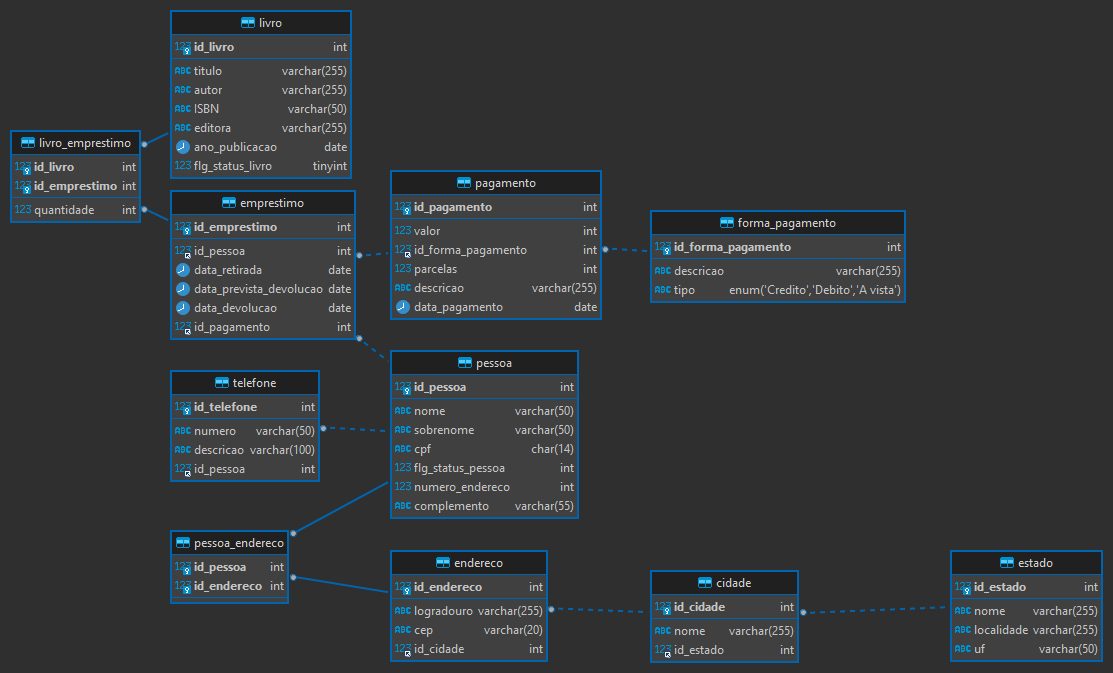
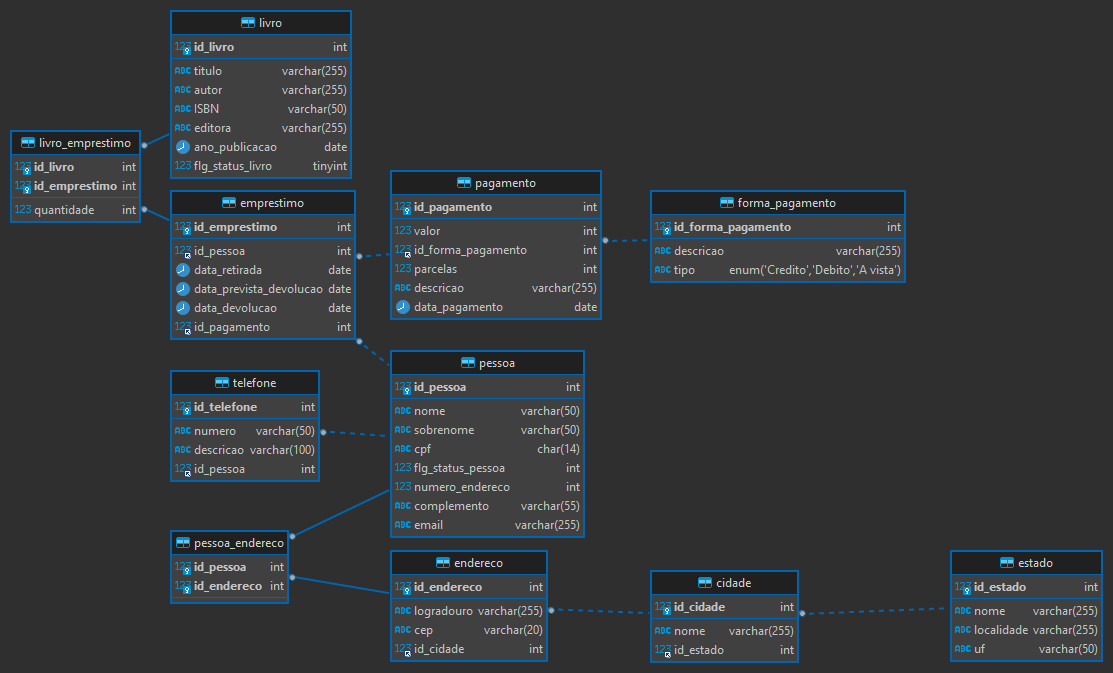
Update

diff --git a/README.md b/README.md
@@ -124,17 +124,33 @@ CREATE TABLE livro_emprestimo(
 ```sql
 CREATE FUNCTION add_pessoa
 	(nome varchar (50),
-	 cpf char (11),
+	 sobrenome varchar(50),
+	 cpf char (14),
 	 email varchar (255))
 RETURNS varchar(50) DETERMINISTIC
 BEGIN
 	DECLARE cpf_formatado char(14);
-	SET cpf_formatado = format_cpf(cpf);
-	INSERT INTO 
-		pessoa (nome, email, CPF) 
-	VALUES 
-		(nome, email, cpf_formatado);
-	RETURN ('Pessoa Incluida');
+	DECLARE custom_exception CONDITION FOR SQLSTATE '45000';
+	DECLARE EXIT HANDLER FOR custom_exception
+	    BEGIN
+	        SIGNAL SQLSTATE '45000' SET MESSAGE_TEXT = 'CPF deve ter tamanho 11 ou 14';
+	    END;
+	IF length(cpf) = 11 THEN
+			SET cpf_formatado = format_cpf(cpf);
+			INSERT INTO 
+			pessoa (nome, sobrenome, email, CPF)
+			VALUES 
+			(nome, sobrenome, email, cpf_formatado);
+			RETURN ('Pessoa Incluida');
+	ELSEIF length(cpf) = 14 THEN
+		INSERT INTO 
+			pessoa (nome, sobrenome, email, CPF) 
+		VALUES 
+			(nome, sobrenome, email, cpf);
+		RETURN ('Pessoa Incluida');
+	ELSE
+		RESIGNAL custom_exception;
+	END IF;
 END;
 
 CREATE FUNCTION format_cpf
